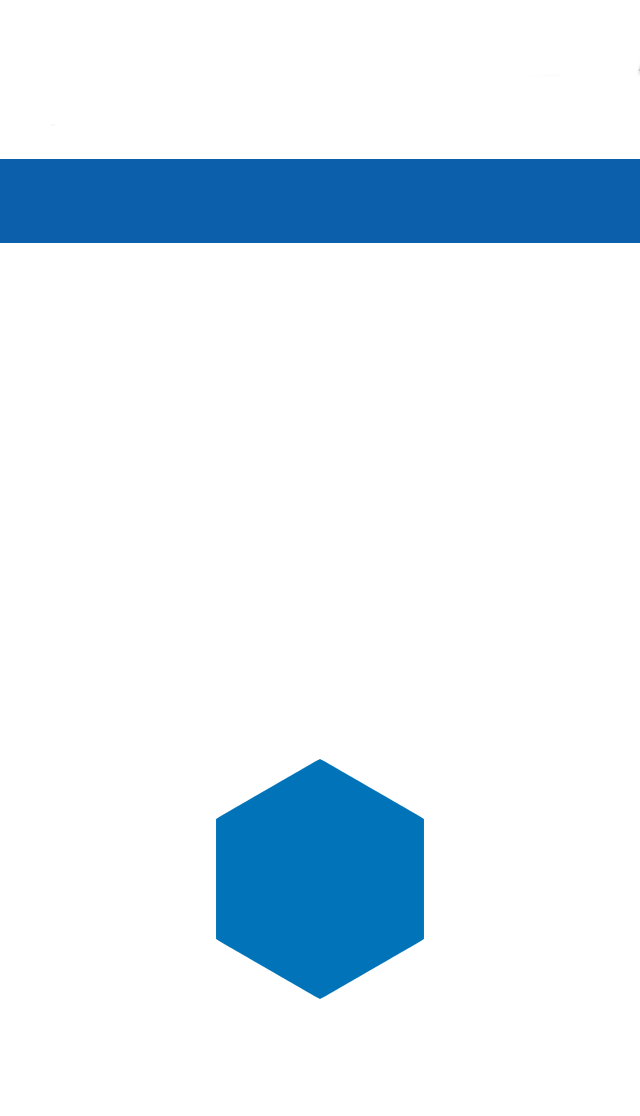
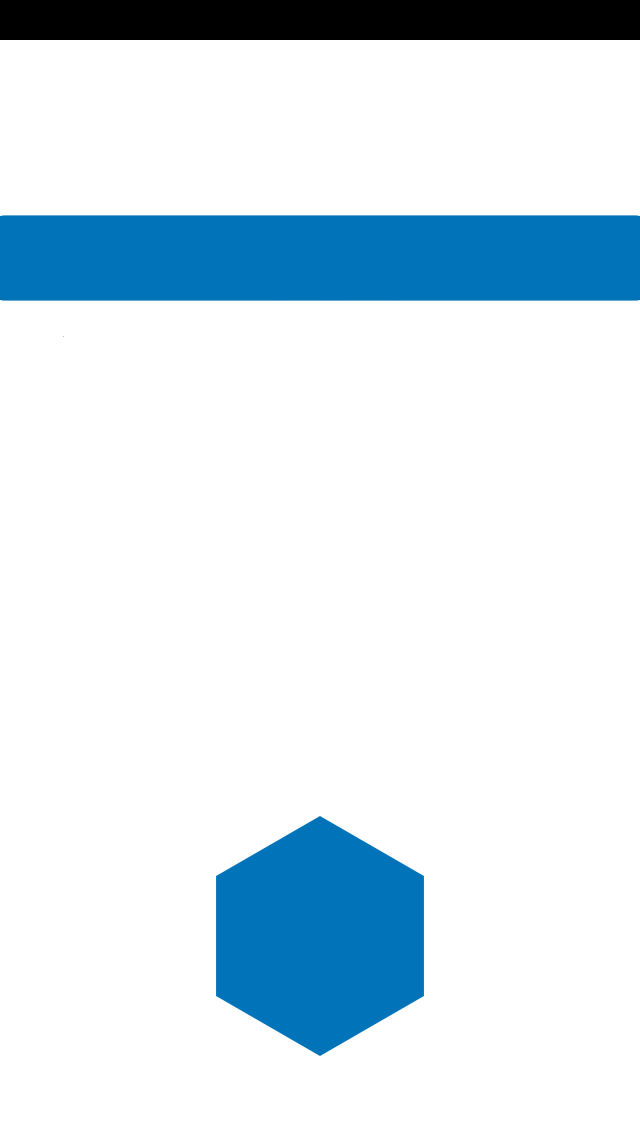
~ improved launch screens to match guidelines + added checkpoint for tapping on browse ~ matched color of "identify" to "browse"

diff --git a/Classes/VLBIdentifyViewController.m b/Classes/VLBIdentifyViewController.m
@@ -103,6 +103,8 @@ return self;
 
     [self.browseButton onTouchUpInside:^(UIButton *button)
     {
+        [TestFlight passCheckpoint:[NSString stringWithFormat:@"%@, %@", [uself class], @"didTouchUpInsideBrowseButton"]];
+
         VLBFeedViewController *localityItemsViewController = [VLBFeedViewController newFeedViewController];
 
         
